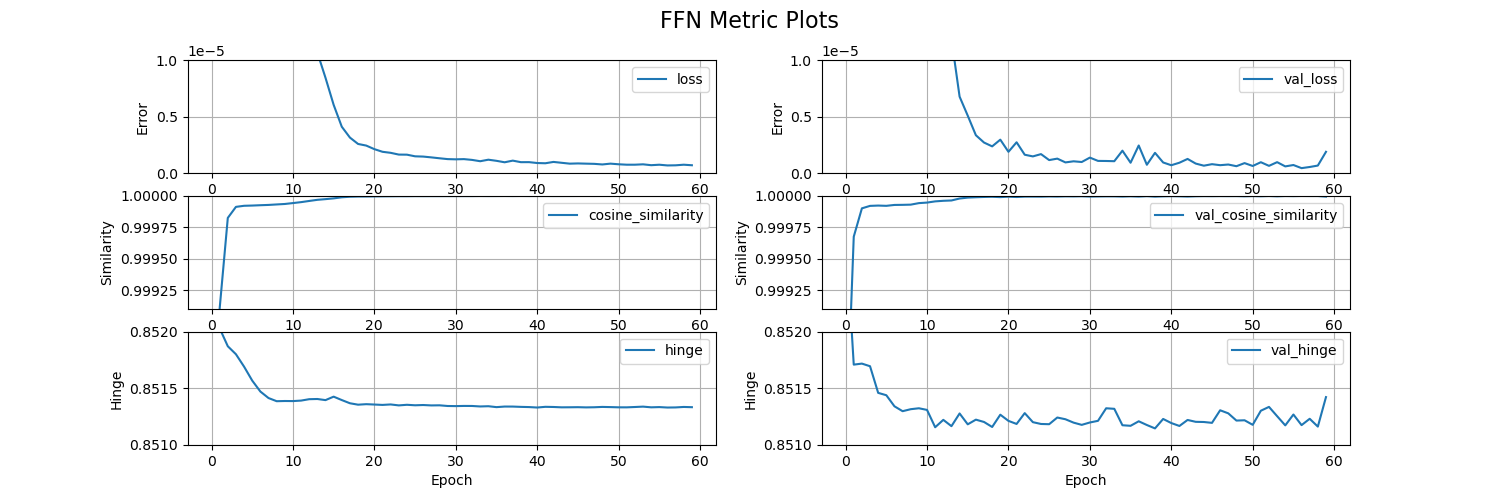
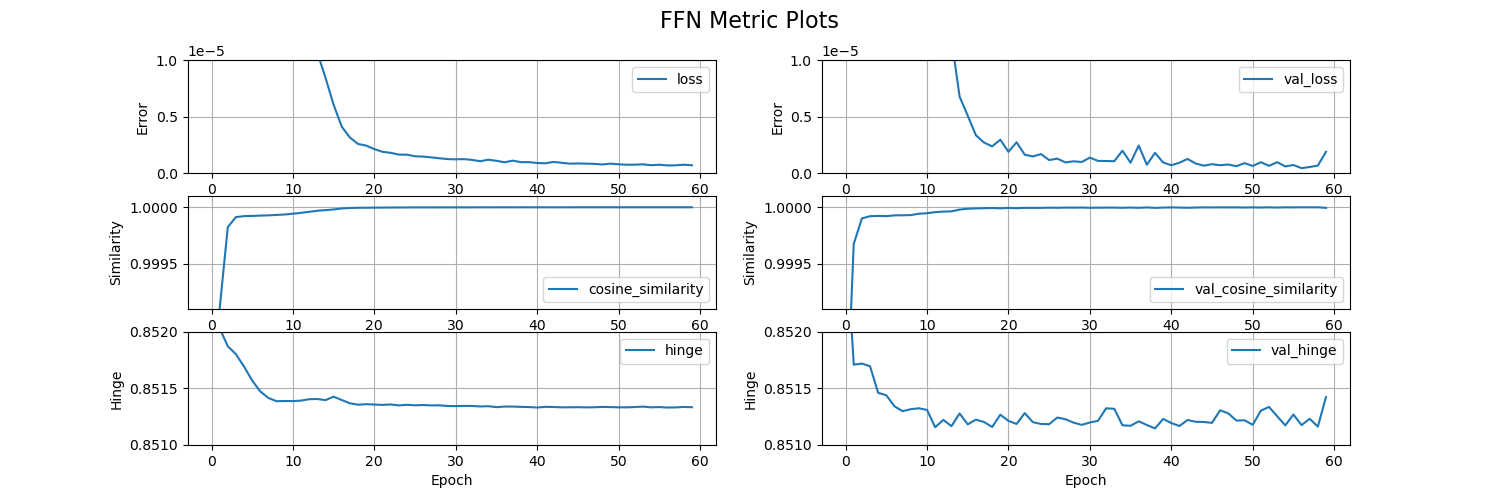
Prediction file implementation

Changed region(s): [[0.1533, 0.39, 0.8893, 0.6], [0.0613, 0.36, 0.46, 0.6], [0.7667, 0.57, 0.8893, 0.6]]

diff --git a/Exponential_Predicting/metric_plots.py b/Exponential_Predicting/metric_plots.py
@@ -1,12 +1,9 @@
-import tensorflow
 from matplotlib import pyplot as plt
-from base_model import x_train, x_valid, y_train, y_valid, history, model
+from base_model import history
 
 
-predictions = model.predict(x_valid)
-results = model.evaluate(x_valid, y_valid, verbose=0)
-acc = tensorflow.metrics.binary_accuracy(y_valid, predictions)
-def plot_metrics(history):
+# TODO: plotting code refactor, simplify in loop
+def plot_metrics():
     plt.figure(1, figsize=(15, 5))
     plt.suptitle('FFN Metric Plots', fontsize=16)
     plt.subplot(321)
@@ -26,14 +23,14 @@ def plot_metrics(history):
     plt.grid(True)
     plt.subplot(323)
     plt.plot(history.history['cosine_similarity'], label='cosine_similarity')
-    plt.ylim([.9991, 1])
+    plt.ylim([.9991, 1.0001])
     plt.xlabel('Epoch')
     plt.ylabel('Similarity')
     plt.legend()
     plt.grid(True)    
     plt.subplot(324)
     plt.plot(history.history['val_cosine_similarity'], label='val_cosine_similarity')
-    plt.ylim([.9991, 1])
+    plt.ylim([.9991, 1.0001])
     plt.xlabel('Epoch')
     plt.ylabel('Similarity')
     plt.legend()
@@ -54,6 +51,7 @@ def plot_metrics(history):
     plt.grid(True)
     return plt
 
+
 if __name__ == '__main__':
-    plot_metrics(history).savefig('metrics_plots.png')
-    plot_metrics(history).show()
+    plot_metrics().savefig('metrics_plots.png')
+    plot_metrics().show()

diff --git a/Exponential_Predicting/base_model.py b/Exponential_Predicting/base_model.py
@@ -1,8 +1,6 @@
 import numpy as np
 import tensorflow
 import keras
-import dill
-from matplotlib import pyplot as plt
 from tensorflow.python.keras.layers import Dense
 from tensorflow.python.keras.models import Sequential
 from sklearn.model_selection import train_test_split
@@ -16,6 +14,7 @@ drop_vals = np.arange(len(dataloader.columns)-1).tolist()
 x_train, x_valid, y_train, y_valid = train_test_split(dataloader.drop(columns = drop_vals).to_numpy(), 
                                                       dataloader.drop(columns='c').to_numpy(), test_size=0.2, 
                                                       random_state=0)
+
 def load_model(): #Function to load model upon calling
     model = Sequential()
     model.add(Dense(1, activation="relu")) #Attempts to avoid overfitting data
@@ -25,6 +24,7 @@ def load_model(): #Function to load model upon calling
     model.add(Dense(12, activation="relu"))
     model.add(Dense(7))
     return model
+
 
 model = load_model() #Initiate model
 keras.backend.clear_session() #Clear model backend and set random state

diff --git a/Exponential_Predicting/network_predictions.py b/Exponential_Predicting/network_predictions.py
@@ -1,0 +1,7 @@
+import numpy as np
+import tensorflow
+import base_model
+
+predictions = base_model.model.predict(base_model.x_valid)
+results = base_model.model.evaluate(base_model.x_valid, base_model.y_valid, verbose=0)
+acc = tensorflow.metrics.binary_accuracy(base_model.y_valid, predictions)
